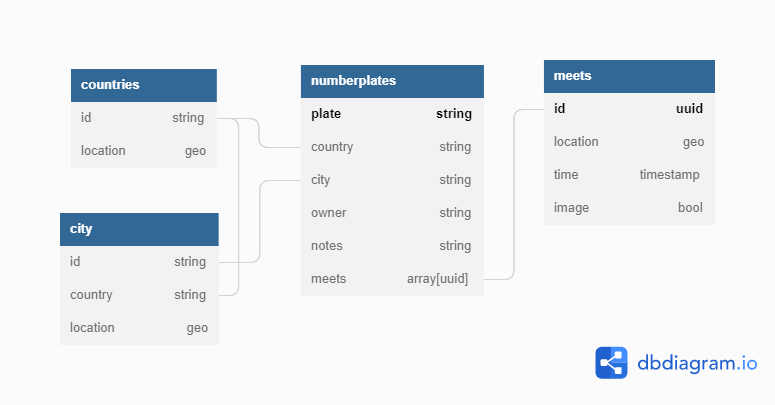
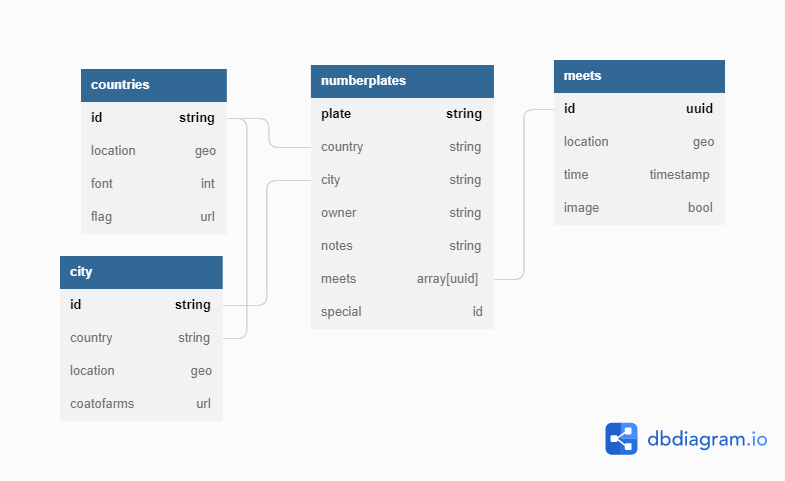
add fonts and flags for countries/cities

diff --git a/Readme.md b/Readme.md
@@ -2,6 +2,8 @@
 
 This project is supposed to be a private Numberplate Database. You can set it up and record numberplates you see in it.
 
+This project is centered on Germany, so many specialities are specifically for German numberplates.
+
 ## Idea
 
 ### Database Structure
@@ -36,11 +38,14 @@ The API is supposed to be written in Rust.
 - GET numberplates/bycountry/:country-id
 - GET numberplates/search/:query
 
-- GET meet/:id
-- GET meet/:id/image
-- POST meet/:id
-- POST meet/:id/image
-- GET meet/:id/distancetohome this will return the distance from its home city/country in km
+- GET meet/:uuid
+- GET meet/:uuid/image will get the image directly. alias to GET image/:uuid
+- POST meet/:uuid
+- POST meet/:uuid/image will upload with the correct uuid. Alias to POST image/:uuid
+- GET meet/:uuid/distancetohome this will return the distance from its home city/country in km
+
+- GET image/:uuid
+- POST image/:uuid
 
 I also want to be able to receive some stats. Don't know how to do this yet.
 
@@ -49,8 +54,15 @@ I also want to be able to receive some stats. Don't know how to do this yet.
 - GET stats/cities/:id
 - GET stats/countries/:id
 
-I also want an endpoint that can compress an image. There is probably already a utility that implements this. Just to save some storage from the images.
+- POST compress I also want an endpoint that can compress an image. There is probably already a utility that implements this. Just to save some storage from the images.
+
+- GET country/:id/font gets the ttf file for the font of the country. Some will be shared, but not all
+- GET font/:id
 
 #### garbage collection
 
 orphaned images are deleted after a certain amount of time.
+
+## Unsorted Thoughts
+
+Alles vor den Siegeln wird als "city" gehandhabt. Dh BWL4 ist eine Stadt, BWL1 ist eine andere Stadt.
